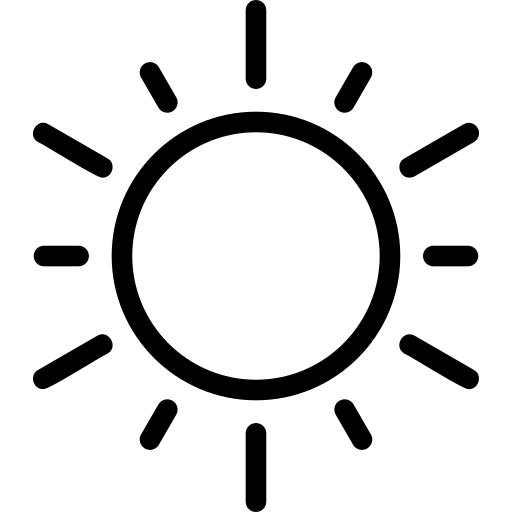
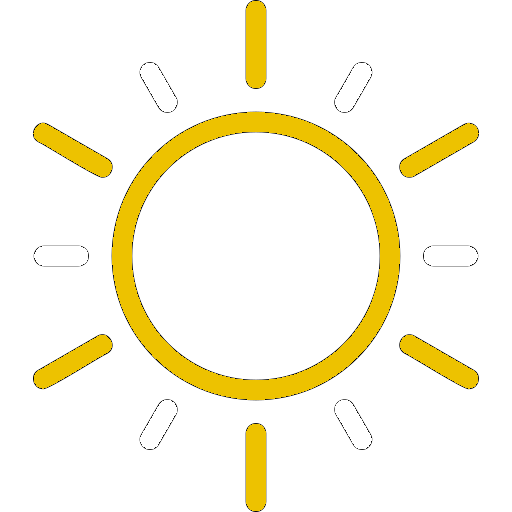
melhorias no codigo

diff --git a/src/components/body.css b/src/components/body.css
@@ -1,99 +1,26 @@
 :root {
     --cor1: rgb(255, 255, 255);
     --cor2: rgb(0, 0, 0);
-    --cor3: rgb(14, 137, 168);
-    --cor4: rgb(66, 66, 66);
+    --cor3: #bb9901;
+    --cor4: rgba(66, 66, 66, 0.98);
+    --cor5: rgb(0, 99, 124);
+    --cor6: rgb(14, 137, 168);
 }
 
-.main-container {
-    position: relative;
+.body-ContainerEscura{
+    background-color:  var(--cor2);
     width: 100vw;
     height: 100vh;
-    overflow: hidden;
-    
+    transition: background-color 1s ease;
+}
+.body-Container{
+    width: 100vw;
+    height: 100vh;
+    transition: background-color 1s ease;
 }
 
 .headerDiv {
     display: flex;
-}
-
-.body-Container {
-    display: flex;
-    width: 100vw;
-    height: 100vh;
-    background-color: var(--cor1);
-     transition: background-color 1s ease;
-}
-
-.body-ContainerEscura {
-    display: flex;
-    width: 100vw;
-    height: 100vh;
-    background-color: var(--cor2);
-    transition: background-color 1s ease;
-    
-}
-
-.divBodyPartOne {
-    width: 300px;
-    height: calc(100vh - 100px);
-    background-color: var(--cor3);
-    border-bottom: 10px solid var(--cor3);
-}
-
-.divBodyPartTwo{
-    height: calc(100vh - 100px);
-    width: calc(100vw - 300px);
-    align-items: center;
-    display: flex;
-    border-bottom: 10px solid var(--cor3);
-}
-
-.divBodyPartTwoEscura {
-    height: calc(100vh - 100px);
-    width: calc(100vw - 300px);
-    align-items: center;
-    display: flex;
-    border-bottom: 10px solid var(--cor3);
-    color: white;
-}
-
-.containerPerfil {
-    position: fixed;
-
-    width: 280px;
-    height: 280px;
-    background-color: aliceblue;
-    left: 130px;
-    top: 140px;
-    border-radius: 50%;
-    border: 10px solid var(--cor3);
-    box-sizing: border-box;
-    overflow: hidden;
-    justify-content: center;
-    align-items: center;
-    display: flex;
-}
-
-.fabianoImg {
-    width: 220px;
-    height: auto;
-    display: block;
-    border-radius: 50%;
-    border: 13px solid var(--cor3);
-}
-
-.nome {
-    font-size: 40px;
-    font-family: 'Raleway', sans-serif;
-    font-weight: 900;
-    white-space: nowrap;
-    /* Corrigido de text-wrap para white-space */
-}
-
-.subTitulo {
-    margin-top: 15px;
-    font-size: 20px;
 }
 
 .sectionNome {
@@ -101,15 +28,71 @@
     margin-left: 170px;
 }
 
+.divHeader {
+    display: flex;
+}
+
+.divBody {
+width: 100vh;
+height: calc(100vh - 100px);
+display: flex;
+justify-content: end;
+align-items: center;
+gap: 20px;
+}
+
+.fabianoImg {
+    width: 220px;
+    height: auto;
+    border-radius: 50%;
+    margin-right: 20px;
+}
+
+.perfil{
+    align-items: center;
+    justify-content: center;
+    text-align: center;
+    margin-right: -30px;
+}
+.perfilAtivo{
+    align-items: center;
+    justify-content: center;
+    text-align: center;
+    
+}
+
+.hello {
+    color: var(--cor4);
+    font-size: 18px;
+}
+.nome {
+    font-size: 40px;
+    font-family: 'Raleway', sans-serif;
+    font-weight: 900;
+    white-space: nowrap;color:var(--cor3);
+}
+
+
+.subTitulo {
+    margin-top: 5px;
+    font-size: 25px;
+    color: var(--cor4);
+}
+
 .CV {
     margin-top: 30px;
     width: 120px;
     height: 35px;
-    border-radius: none;
-    border: 1px solid var(--cor3);
-    background-color: var(--cor3);
-    color: white;
-    cursor: pointer;
+    border-style: none;
+     cursor: pointer;
+        background-color: var(--cor3);
+        color: white;
+}
+.CV:hover {
+    margin-top: 30px;
+    width: 120px;
+    height: 35px;
+
 }
 
 li {
@@ -127,9 +110,8 @@ li {
 }
 
 .midiaSocial {
-    width: 50px;
-    margin-left: 85px;
-    margin-bottom: 10px;
+    display: flex;
+    gap: 10px;
+    width: 100%;
     justify-content: center;
-    text-align: center;
 }

diff --git a/src/components/header.tsx b/src/components/header.tsx
@@ -1,36 +1,37 @@
-import '../components/header.css';
 import { Link } from 'react-router-dom';
-import lua from '../assets/img/forma-de-meia-lua.png'
-import sol from '../assets/img/ensolarado.png'
+import '../components/header.css';
+import lua from '../assets/img/forma-de-meia-lua.png';
+import sol from '../assets/img/ensolarado.png';
 
 interface HeaderProps {
-    toggleCor: () => void; 
+    toggleCor: () => void;
     active: boolean;
-    colorDiv: boolean;
-    corBody: boolean;
     corHead: boolean;
 }
 
-function header({ toggleCor, active , corHead}: HeaderProps) {
-
+function Header({ toggleCor, active, corHead }: HeaderProps) {
     const listaMenu = [
         { id: '1', texto: 'Home', to: '/' },
         { id: '2', texto: 'About Me', to: '/' },
         { id: '3', texto: 'Portfolio', to: '/' },
-        { id: '4', texto: 'Contact Me', to: '/', idClass:'contact', },
-    ]
+        { id: '4', texto: 'Contact Me', to: '/', idClass: 'contact' },
+    ];
+
     const menuClass = corHead ? 'menu-mobile' : 'menu-navBarEscuro';
 
-    return (<nav className={menuClass}>
-        <ul className='menu-navBar'>
-            {listaMenu.map((lista) => ( <Link className='Link' to={lista.to}>
-                <li className='li-Menu' id={lista.idClass} key={lista.id}>{lista.texto}</li></Link>
-            ))} 
-            <li><img  className= {active ? 'active' : 'claro'} onClick={toggleCor} src={lua}/></li>
-            <li><img id='escuro' className={active ? 'claro' : 'active'} src={sol} onClick={toggleCor}/></li> 
-        </ul>
-    </nav>)
-
+    return (
+        <nav className={menuClass}>
+            <ul className='menu-navBar'>
+                {listaMenu.map(({ id, texto, to, idClass }) => (
+                    <Link className='Link' to={to} key={id}>
+                        <li className='li-Menu' id={idClass}>{texto}</li>
+                    </Link>
+                ))}
+                <li><img className={active ? 'active' : 'claro'} onClick={toggleCor} src={lua} alt='Lua' /></li>
+                <li><img id='escuro' className={active ? 'claro' : 'active'} onClick={toggleCor} src={sol} alt='Sol' /></li>
+            </ul>
+        </nav>
+    );
 }
 
-export default header;
+export default Header;

diff --git a/src/components/body.tsx b/src/components/body.tsx
@@ -19,32 +19,28 @@ function Body() {
         setColorDiv(!colorDiv);
         setCorHead(!corHead);
     }
-
+    
     return (
         <div className='main-container'>
-            <div className='headerDiv'>
-                <h1 className='logo'>Fabiano Fregnani</h1>
-                <Header toggleCor={toggleCor} active={active} colorDiv={colorDiv} corBody={corBody} corHead={corHead} />
-            </div>
             <div className={corBody ? 'body-Container' : 'body-ContainerEscura'}>
-                <div className='divBodyPartOne'></div>
-                <div className='containerPerfil'><img className='fabianoImg' src={fabianoIMG} /></div>
-                <div className={colorDiv ? 'divBodyPartTwo' : 'divBodyPartTwoEscura'}>
-                    <section className='sectionNome'>
+                <div className='divHeader'><h1 className='logo'>Fabiano Fregnani</h1>
+                    <Header {...{ toggleCor, active, colorDiv, corBody, corHead }} /></div> 
+                <div className='divBody'>
+                    <img className='fabianoImg' src={fabianoIMG} />
+                    <section className='perfil'>
+                        <p className='hello'>Hello, I'm </p>
                         <h1 className='nome'>Fabiano Fregnani</h1>
                         <p className='subTitulo'>Full-Stack Developer</p>
                         <button className='CV'>Download CV</button>
-                    </section>
-                    <section>
                         <ul className='midiaSocial'>
                             <li><img className='git' src={git} /></li>
                             <li><img className='linkedin' src={linkedin} /></li>
                             <li><img className='whatsap' src={whatsap} alt="" /></li>
-                        </ul>
-                    </section>
-                </div>
+                        </ul></section>
+                        </div>     
+                   </div>
             </div>
-        </div>
+      
     )
 }
 

diff --git a/src/components/header.css b/src/components/header.css
@@ -1,15 +1,17 @@
+:root {
+   --cor1: rgb(255, 255, 255);
+   --cor2: rgb(0, 0, 0);
+   --cor3: rgb(187, 153, 1);
+   --cor4: rgba(66, 66, 66, 0.664);
+   --cor5: rgb(0, 99, 124);
+   --cor6: rgb(14, 137, 168);
+}
 
 .menu-navBar {
    display: flex;
    width: 100vw;
    height: 100px;
-   box-sizing: border-box;menu-navBar {
-   display: flex;
-   width: 100vw;
-   height: 100px;
    box-sizing: border-box;
-   background-color: var(--cor1);
-   transition: background-color 1s ease;
 }
 
 .menu-navBarEscuro {
@@ -17,18 +19,12 @@
    width: 100vw;
    height: 100px;
    box-sizing: border-box; 
-   background-color: var(--cor2);
-   transition: background-color 1s ease;
 }
-}
-
 .menu-navBarEscuro {
    display: flex;
    width: 100vw;
    height: 100px;
    box-sizing: border-box;
-   background-color: black;
-   transition: background-color 1s ease;
 }
 
 .menu-mobile{
@@ -36,7 +32,7 @@
    align-items: center;
    box-sizing: border-box;
    height: 100px;
-   
+
 }
 
 .menu-navBar{
@@ -58,9 +54,10 @@
    font-size: 20px;
    font-weight: normal;
    width: 300px;
-  text-wrap: nowrap;
-  background-color: var(--cor3);
-  color: white;  
+   color:var(--cor3); 
+   font-family: 'Raleway', sans-serif;
+   font-weight: 900;
+   white-space: nowrap;
 }
 
 .li-Menu{
@@ -68,12 +65,13 @@ padding: 5px;
 font-size: 16px;
 text-wrap: nowrap;
 margin-left: 20px;
-color: white;
+color: var(--cor3);
 }
 
 .li-Menu:hover{
-color: var(--cor3);
-transition: color .3s;
+color: rgb(255, 255, 255);
+background-color: var(--cor3);
+transition: color .02s;
 }
 
 #contact{
@@ -95,7 +93,7 @@ margin-left: -20px;
 }
 
 .active{
-   width: 15px;
+   width: 20px;
    height: auto;
    cursor: pointer;
    display: none;
